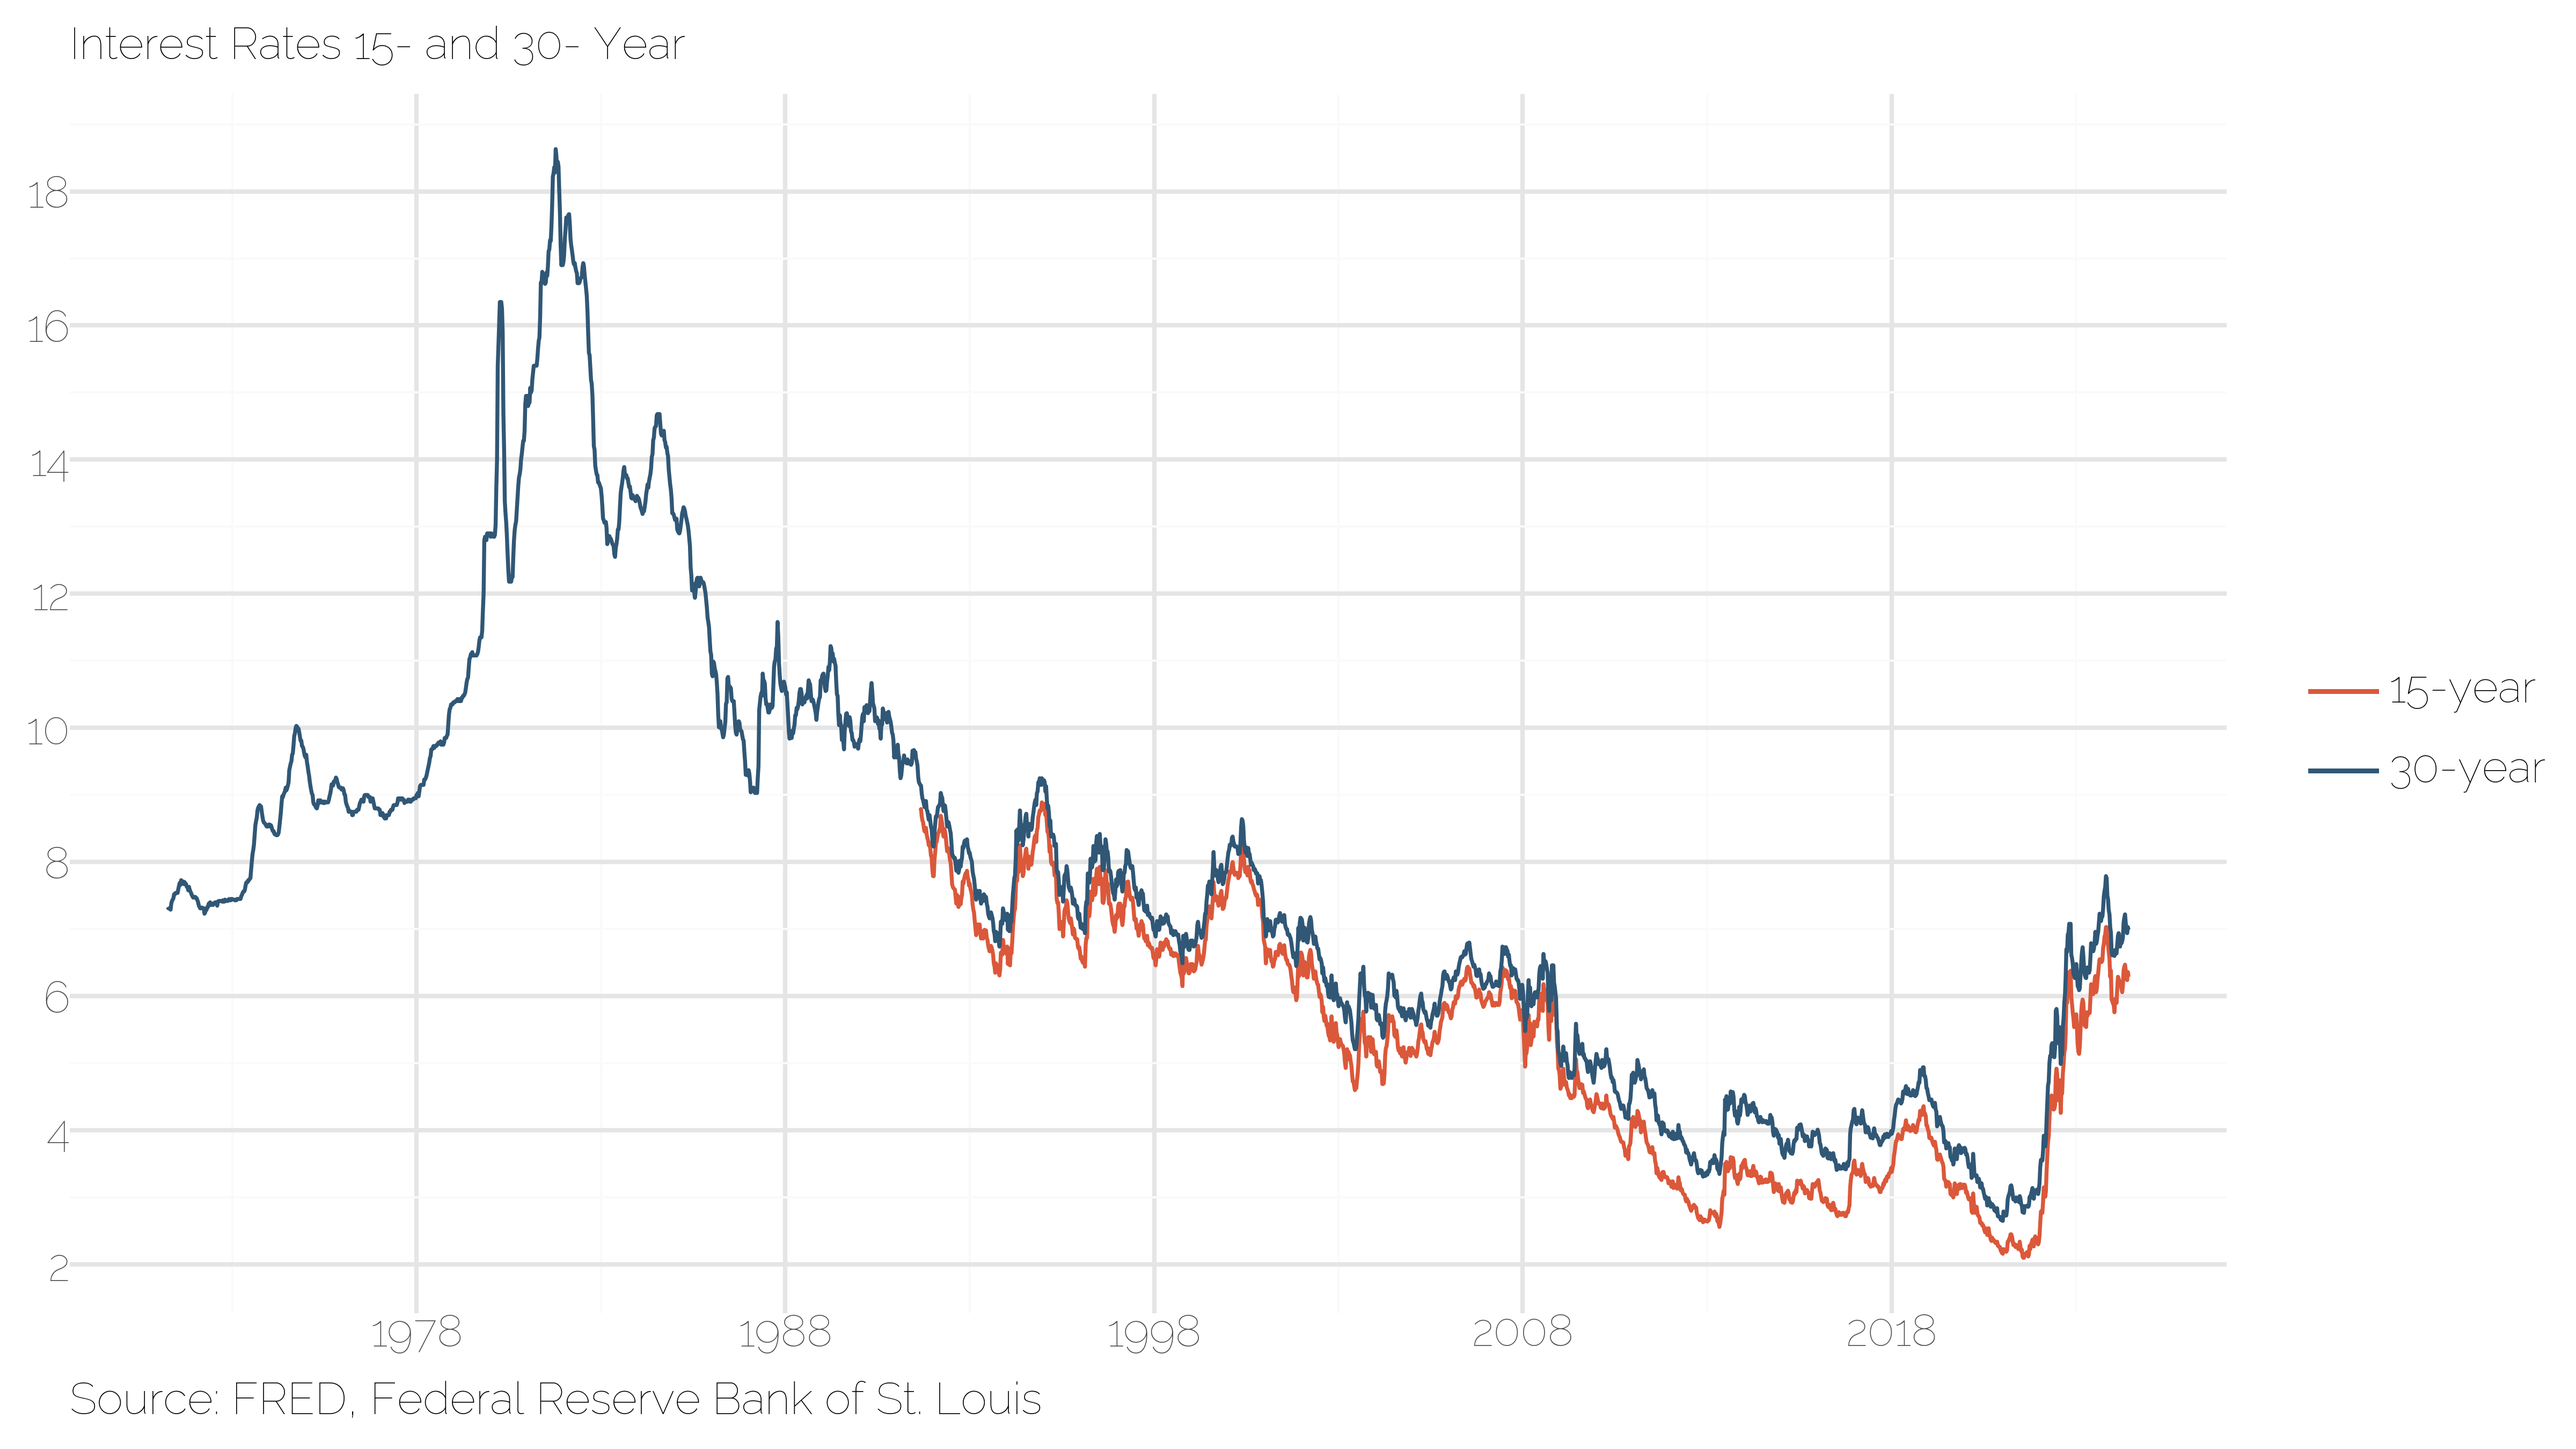
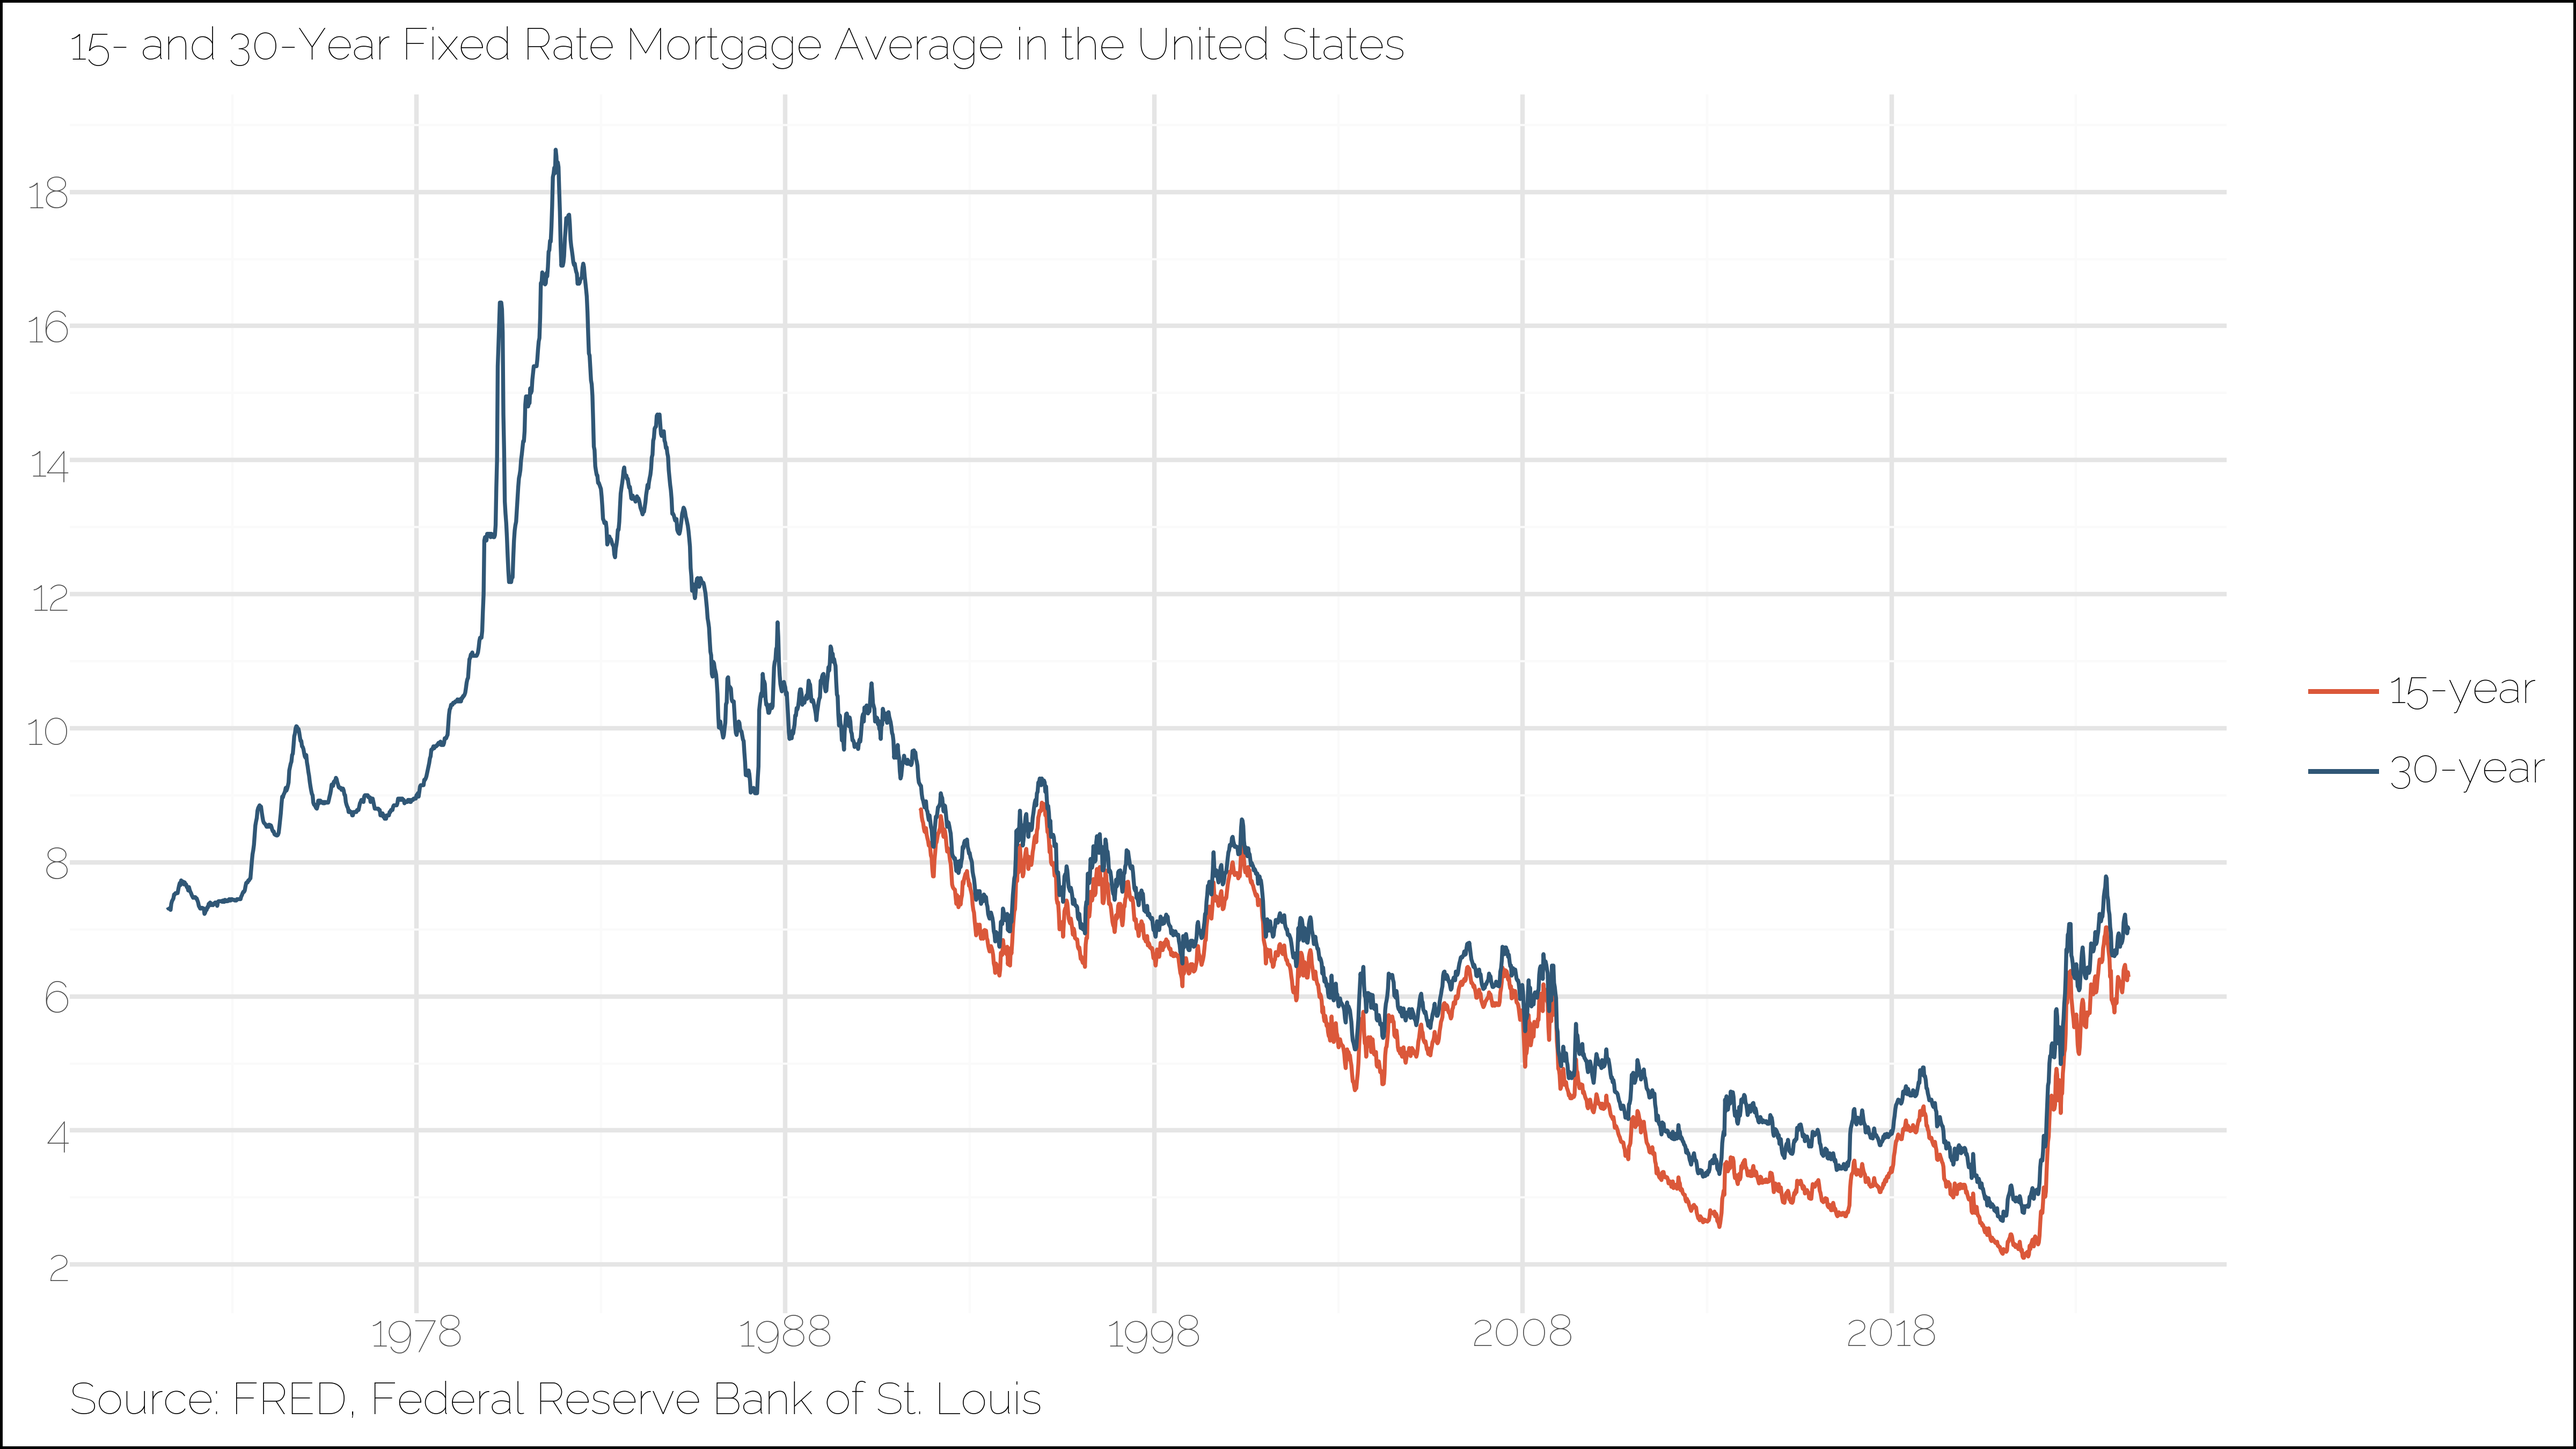
Edit visualization

Changed region(s): [[0.0, 0.9956, 1.0, 1.0], [0.0, 0.0, 0.2812, 0.0311]]

diff --git a/historical-mortgage-rates/historical-mortgages-plot.py b/historical-mortgage-rates/historical-mortgages-plot.py
@@ -12,13 +12,12 @@ from plotnine import (
     theme_minimal,
     theme,
     element_text,
+    element_rect,
     labs,
 )
 
 project_dir = os.getcwd()
-font_path = os.path.join(
-    project_dir, "plotnine-visualizations/Raleway-VariableFont_wght.ttf"
-)
+font_path = os.path.join(project_dir, "Raleway-VariableFont_wght.ttf")
 prop = fm.FontProperties(fname=font_path)
 
 rates_clean = pd.read_csv("data/rates_clean.csv")
@@ -39,7 +38,7 @@ p = (
     + scale_color_manual(values=["#DB583A", "#305776"], labels=["15-year", "30-year"])
     + theme_minimal()
     + labs(
-        title="Interest Rates 15- and 30- Year",
+        title="15- and 30-Year Fixed Rate Mortgage Average in the United States",
         caption="Source: FRED, Federal Reserve Bank of St. Louis",
         x="",
         y="",
@@ -48,9 +47,10 @@ p = (
     + theme(
         title=element_text(hjust=0, fontproperties=prop),
         text=element_text(fontproperties=prop),
+        plot_background=element_rect(fill="white")
     )
 )
 
 p.show()
 
-p.save("historical_mortgages_plot.png", dpi=300, height=4.5, width=8)
+p.save("./historical-mortgage-rates/historical_mortgages_plot.png", dpi=300, height=4.5, width=8)
